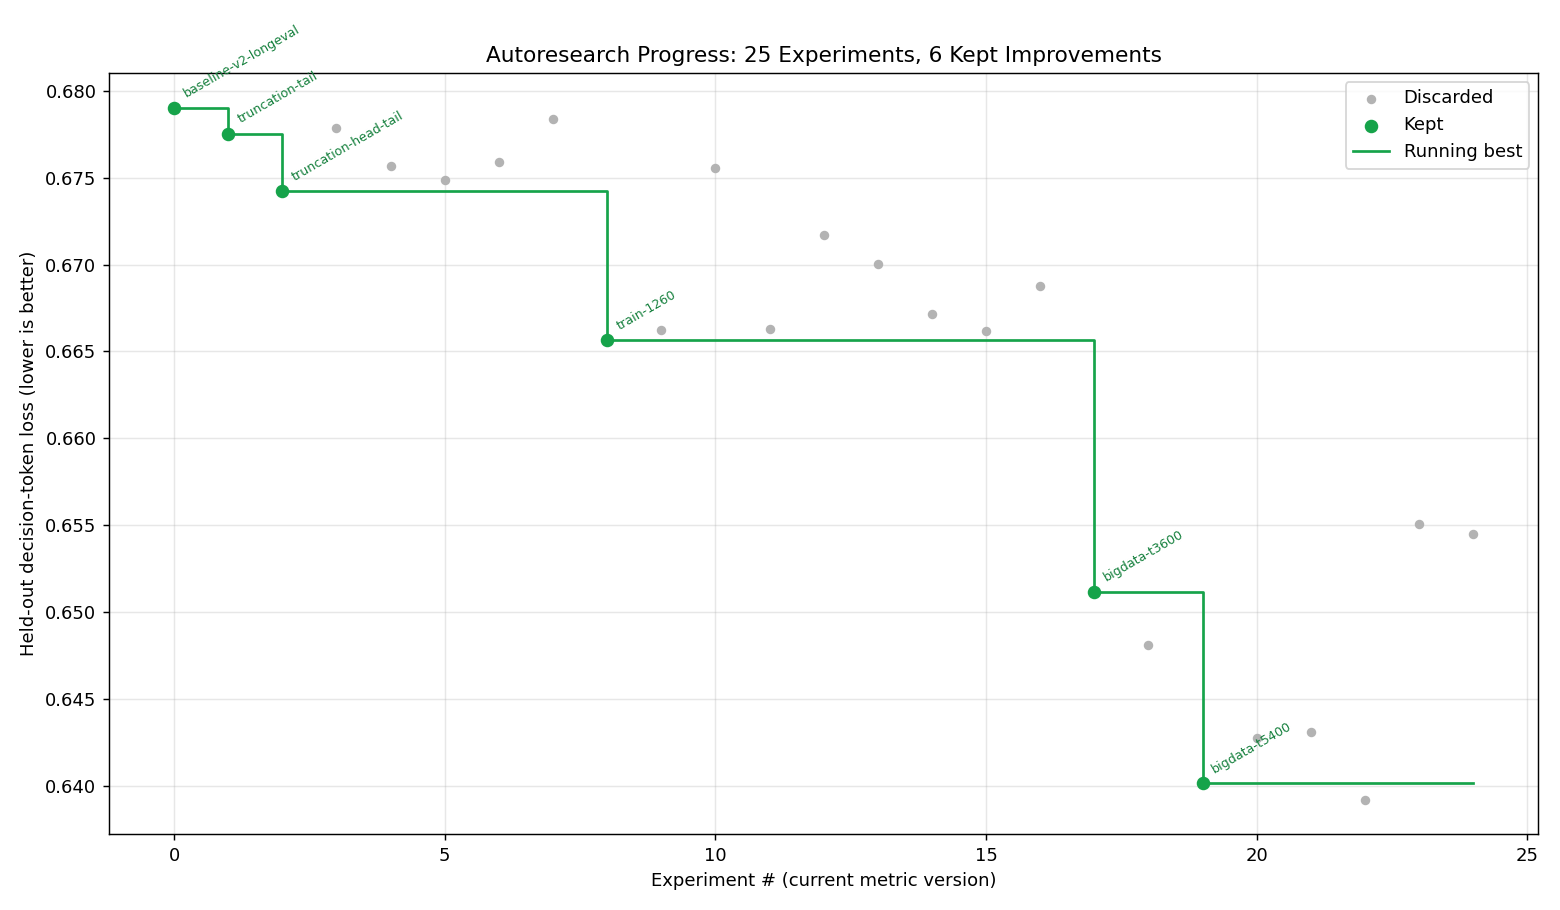
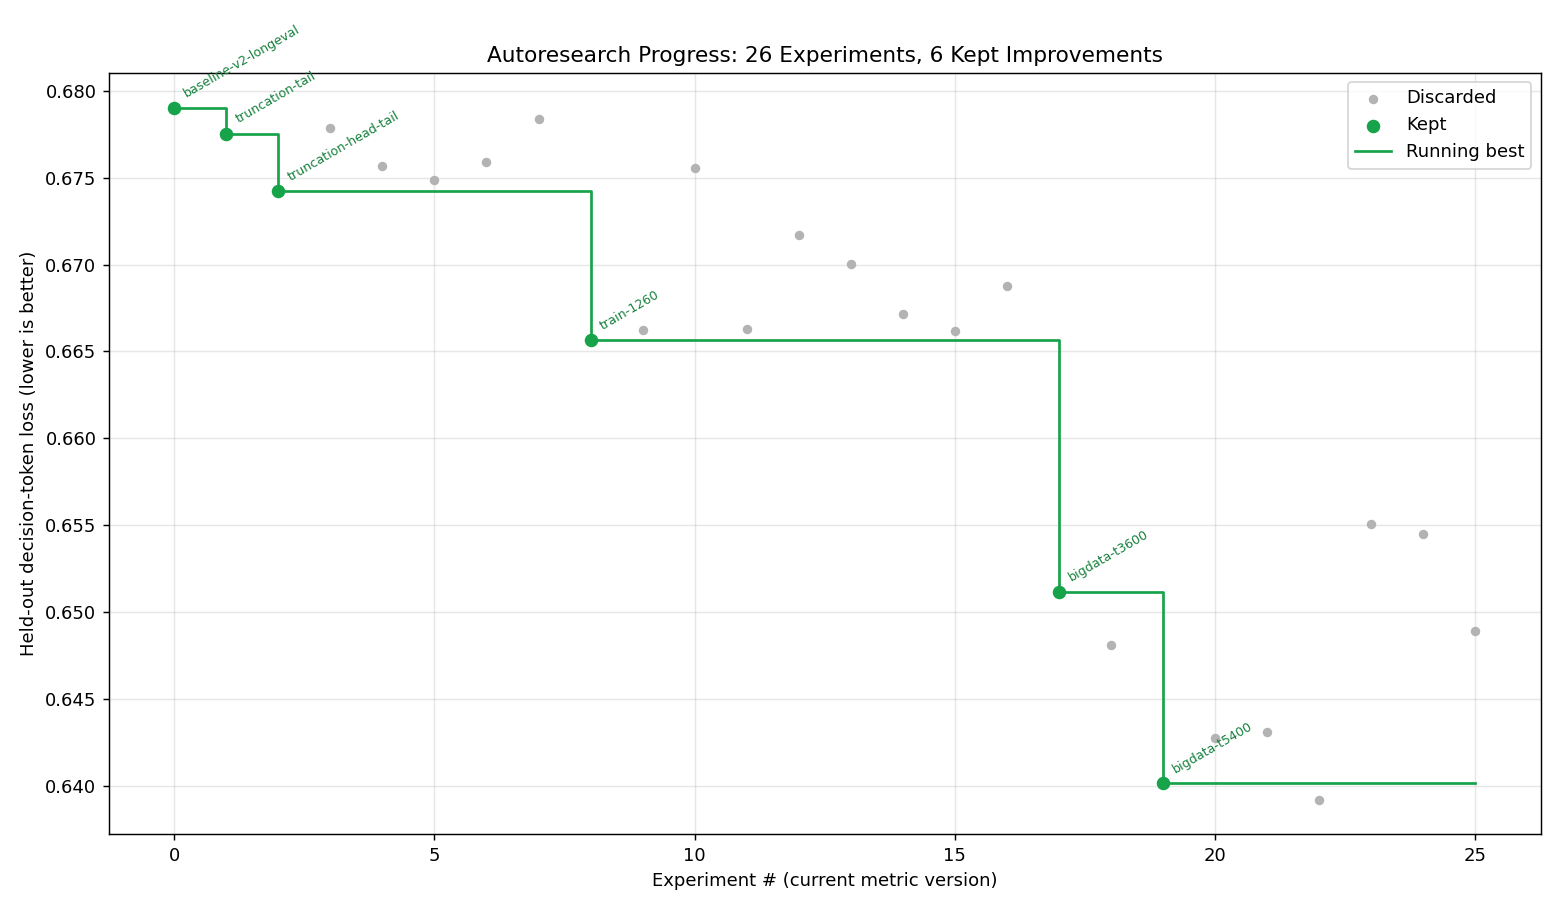
Phase 4: DoRA negative (0045=0.6489>0.6401) -> PEFT track dropped; 8B re-downloading
DoRA (a better adapter) doesn't break the ceiling -- consistent with r128 being worse;
the cap isn't the adapter. 8B (the real bet) stalled at 4/5 shards (mirror), re-launched.
30k-data run (0046) in flight.

diff --git a/EXPERIMENTS.md b/EXPERIMENTS.md
@@ -57,5 +57,6 @@ decision-loss curve).
 | 0042 | bigdata-t7200-s43 | 2-seed confirm of the train7200 frontier (seed 43). Keeps GPU busy within the 9000s tim... | 0.63921 | decision_loss_v2 |  | 518 | 7211.0 |
 | 0043 | r128-t5400 | Capacity break-attempt: r64->r128 (alpha256) at the best compute (train5400/388 steps).... | 0.65508 | decision_loss_v2 |  | 385 | 5402.2 |
 | 0044 | r128-t7200 | Capacity + compute: r128 @ train7200 (516 steps). If r64 plateaued at 388 due to capaci... | 0.65449 | decision_loss_v2 |  | 512 | 7206.4 |
+| 0045 | dora | Phase4 ceiling-break: DoRA (weight-decomposed LoRA) on the big-data best -- often beats... | 0.64894 | decision_loss_v2 |  | 306 | 5414.0 |
 
-_44 experiments logged; 16 on the v1 (head@8192) curve, 25 on the v2 (long-horizon, to 16384) curve, 16 kept improvements total._
+_45 experiments logged; 16 on the v1 (head@8192) curve, 26 on the v2 (long-horizon, to 16384) curve, 16 kept improvements total._

diff --git a/RESEARCH_LOG.md b/RESEARCH_LOG.md
@@ -426,4 +426,10 @@ ceiling, on three fronts (same fixed metric, so all comparable to 0.6401):
   override so the loop can run 8B specs.
 Discipline unchanged: fixed metric, 2-seed every new best, keep-margin 0.004.
 
+### Phase 4 PEFT track = negative; 8B is the bet
+- **0045 DoRA**: 0.64894 (worse than 0.6401; DoRA also ~1.5x slower so fewer steps). A *better
+  adapter* doesn't break the ceiling -> PEFT track dropped (rsLoRA/all-linear not revived).
+- 8B download stalled at 4/5 shards (mirror AccessDenied on shard 1); re-launched with retries.
+- 0046 (30k data big_long_v2, 15686 ex @train7200) running -- does more/diverse data extend scaling?
+
 <!-- next entries appended at each steering check-in -->
